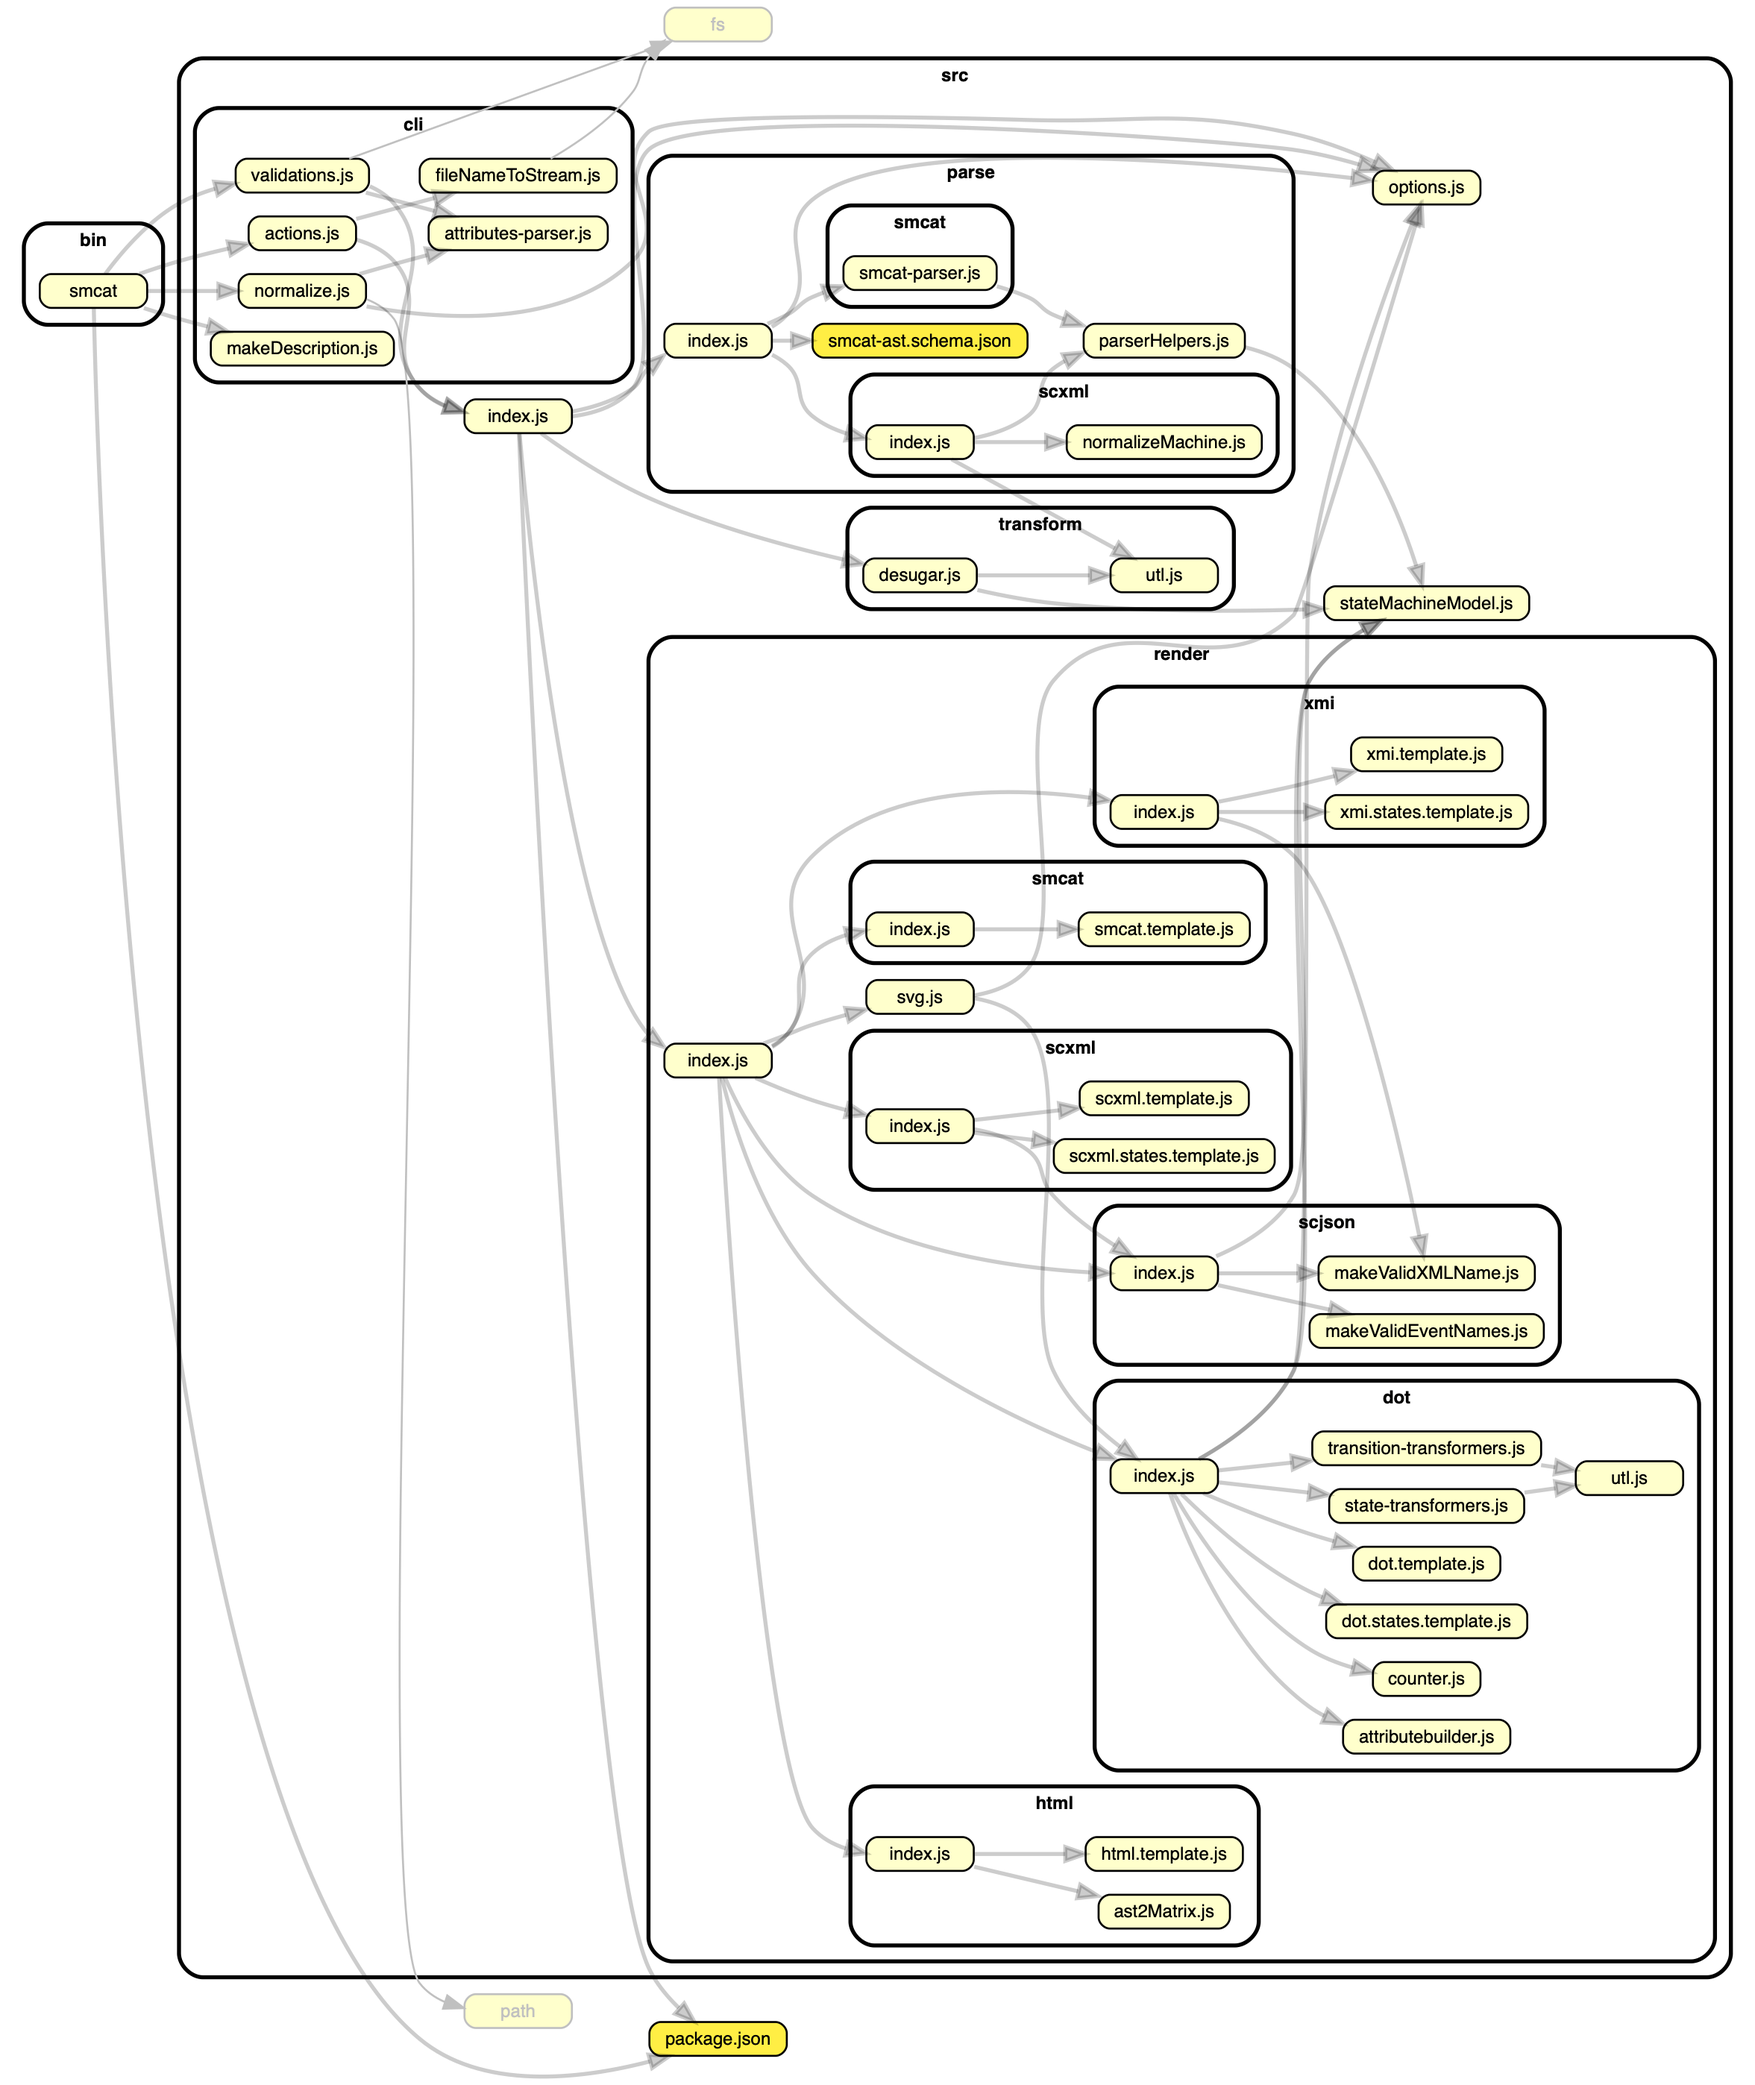
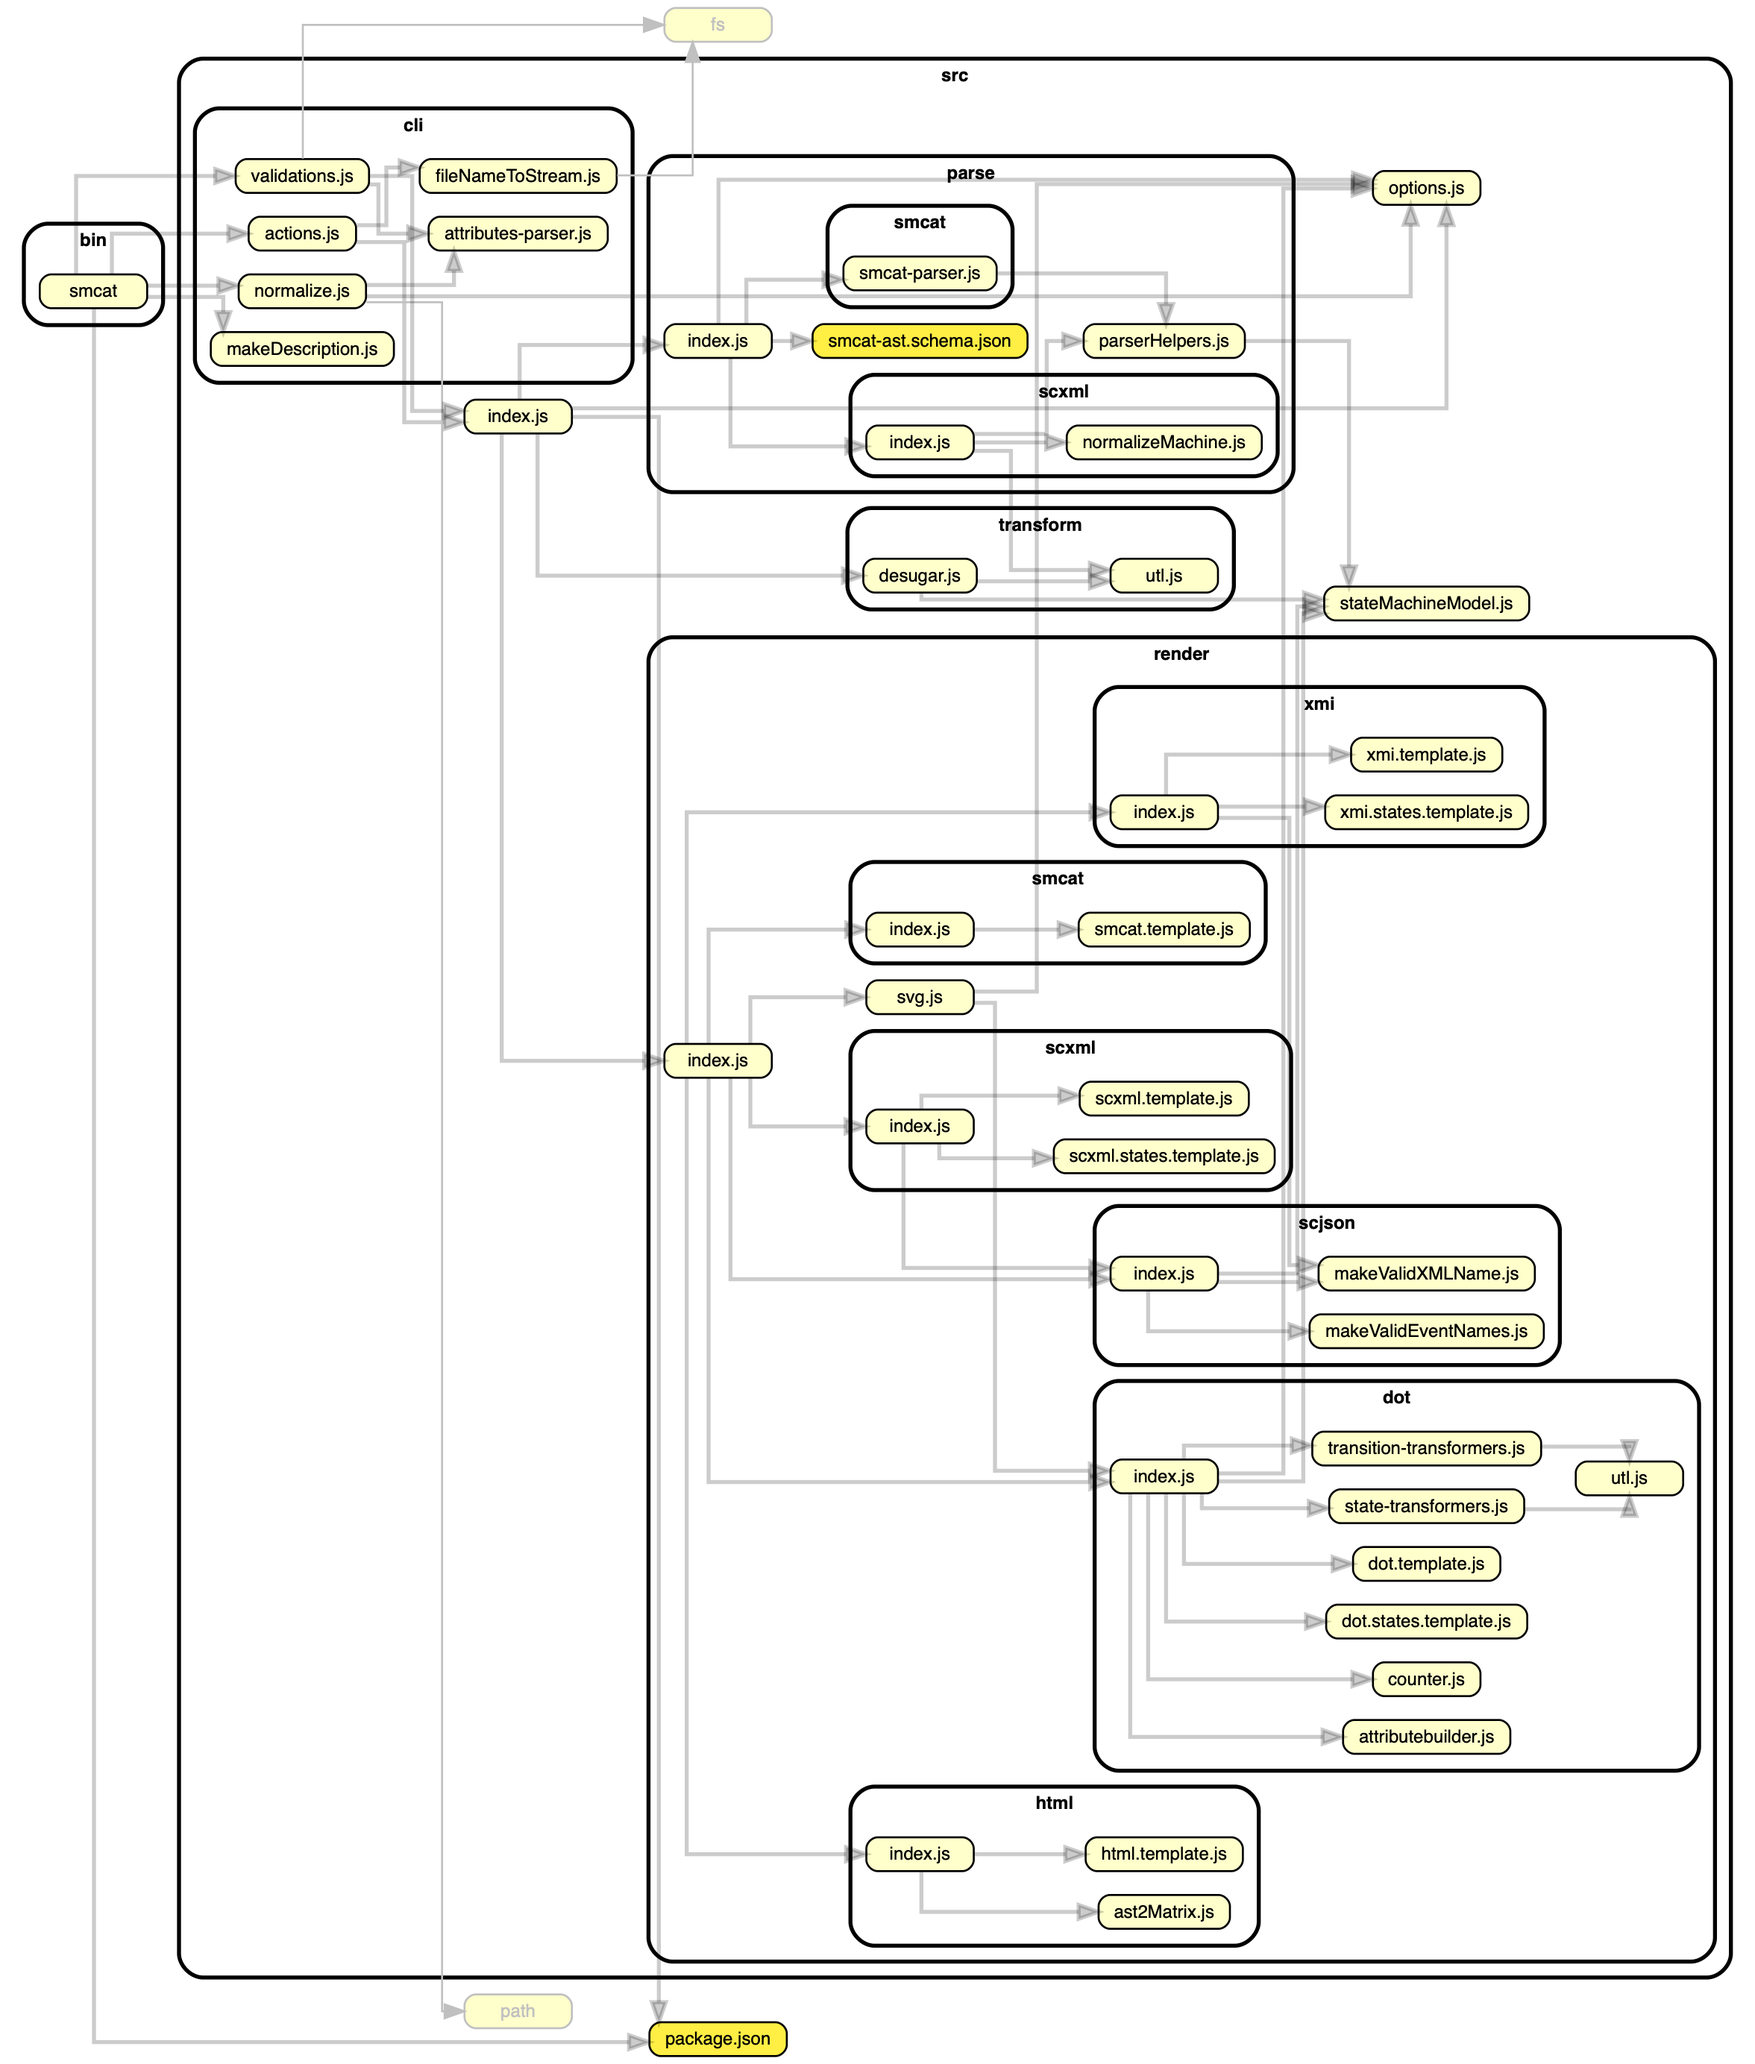
doc(real-world-samples): update mscgen and state-machine-cat graphs
and link to their 'interactive' html variants

Changed region(s): [[0.0, 0.0311, 0.9928, 1.0], [0.3413, 0.0, 0.4343, 0.0311], [0.3102, 0.4971, 0.3413, 0.5282]]

diff --git a/doc/real-world-samples.md b/doc/real-world-samples.md
@@ -88,16 +88,16 @@ transpiled javascript.)
 
 Dependency cruiser used on itself. node_modules left out to keep it concise.
 
-![dependency-cruiser-without-node_modules](real-world-samples/dependency-cruiser-without-node_modules.png)
+[<img width="2156" alt="dependency cruiser's dependency graph" src="real-world-samples/dependency-cruiser-without-node_modules.png">](https://sverweij.github.io/dependency-cruiser/dependency-cruiser-dependency-graph.html)
 
 ### state machine cat
 
 [sverweij/state-machine-cat](https://github.com/sverweij/state-machine-cat) - an interpreter for writing nice state diagrams.
 
-<img width="1177" alt="state-machine-cat without external dependencies" src="real-world-samples/state-machine-cat-without-external-deps.png">
+[<img width="1177" alt="state-machine-cat without external dependencies" src="real-world-samples/state-machine-cat-without-external-deps.png">](https://state-machine-cat.js.org/dependency-cruiser-graph.html)cd ..
 
 ### mscgen.js
 
 [mscgenjs/mscgenjs-core](https://github.com/mscgenjs/mscgenjs-core) - an interpreter library for turning text (in MscGen or two other DSLs) into sequence charts.
 
-![mscgen.js](real-world-samples/mscgenjs-core-without-external-deps.png)
+[![mscgen.js](real-world-samples/mscgenjs-core-without-external-deps.png)](https://mscgenjs.github.io/mscgenjs-core/dependencygraph.html)
